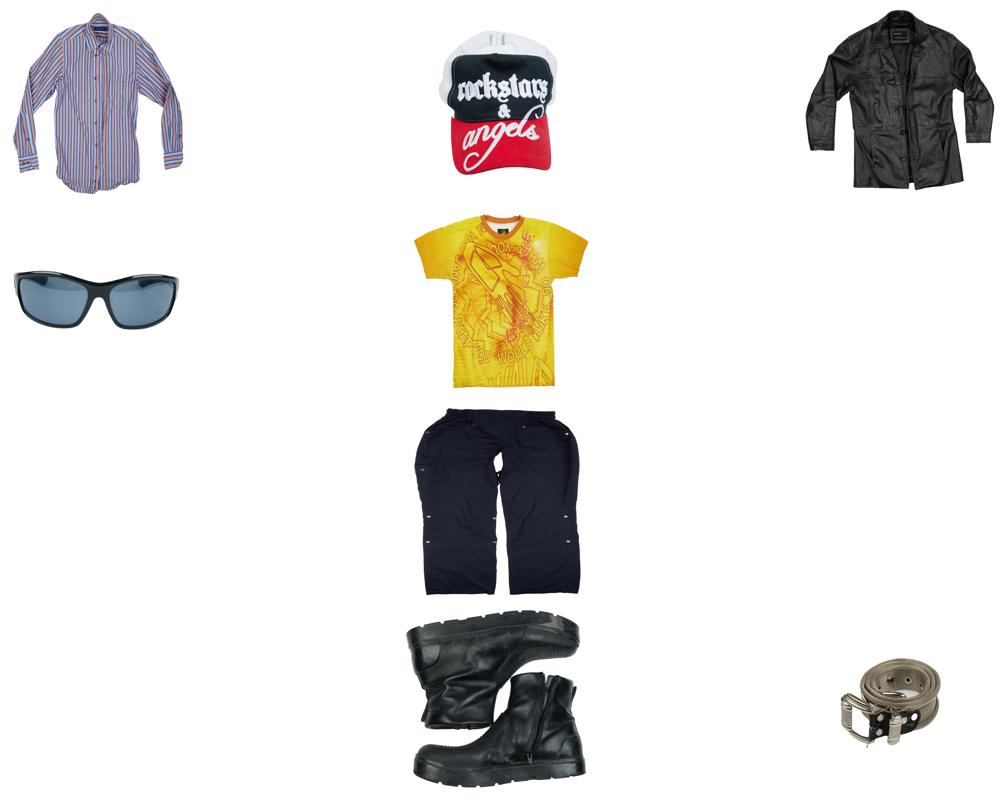
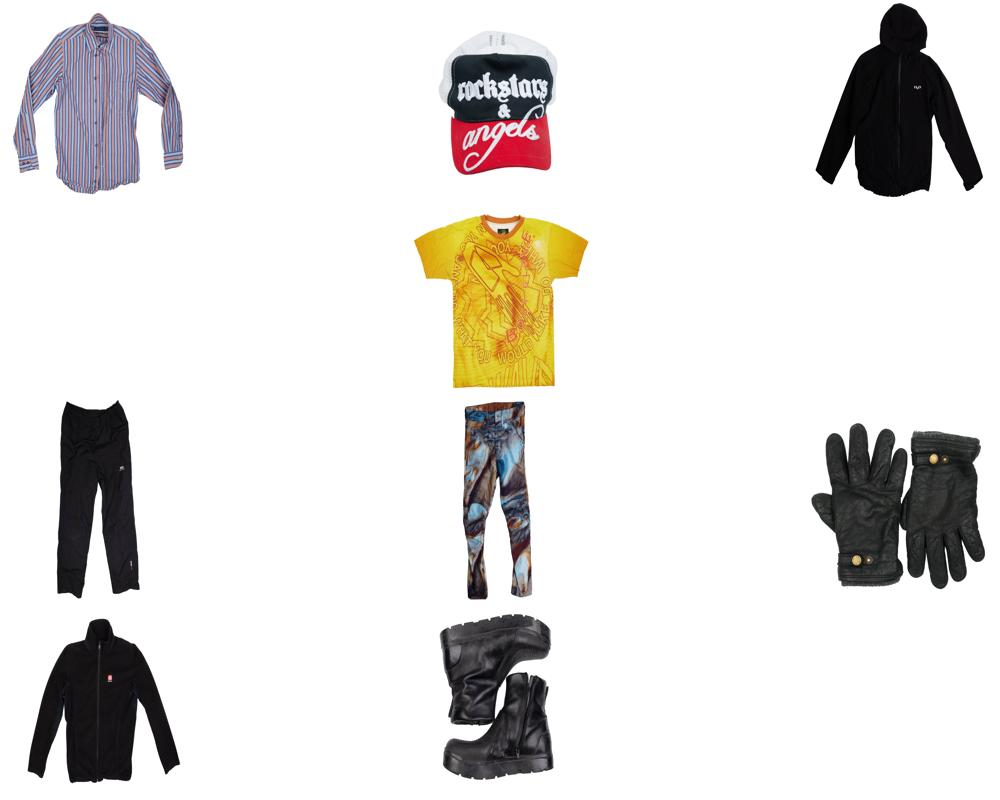
opdatering

diff --git a/toejprogram_clean.py b/toejprogram_clean.py
@@ -15,8 +15,8 @@ def get_next_hour_precipitation(timeseries):
     return next_hour_data['details']['precipitation_amount'] if next_hour_data else 0
     
 def get_current_temperature(timeseries):
-    return 5
-    #return timeseries[0]['data']['instant']['details']['air_temperature']
+    return 1
+   # timeseries[0]['data']['instant']['details']['air_temperature']
           
 def get_next_hour_symbol_code(timeseries):
     next_hour_data = timeseries[0]['data']['next_1_hours']
@@ -116,7 +116,8 @@ def troejer():
 
 def jakker():  
         if next_hour_precipitation >= 1:    
-            return random.choice(item for item in jakker_data['jakker'] if item['vandtaet'])
+            filtered_items = [item for item in jakker_data['jakker'] if item['vandtaet']]
+            return random.choice(filtered_items)
         elif current_temperature < 3:
             return random.choice([item for item in jakker_data['jakker'] if 7 <= item['varme'] <= 8])
         elif 3 <= current_temperature <= 6: 
@@ -227,7 +228,7 @@ def outfit(timeseries):
     
 
     print(json_load_data)
-    #return(json_load_data)
+    return(json_load_data)
 
 
     

diff --git a/test.py b/test.py
@@ -1,7 +1,7 @@
 from PIL import Image
 import os
 import random
-from toejprogram32 import outfit, timeseries
+from toejprogram_clean import outfit, timeseries
 
 
 outfit_liste = outfit(timeseries)
@@ -58,6 +58,8 @@ position_images = {}
 
 
 for item in outfit_liste:
+    if item is None:
+        continue  # Skip None values
     category = position_mapping.get(item['category'], None)
     if category and category in layout:
         pos = layout[category]
